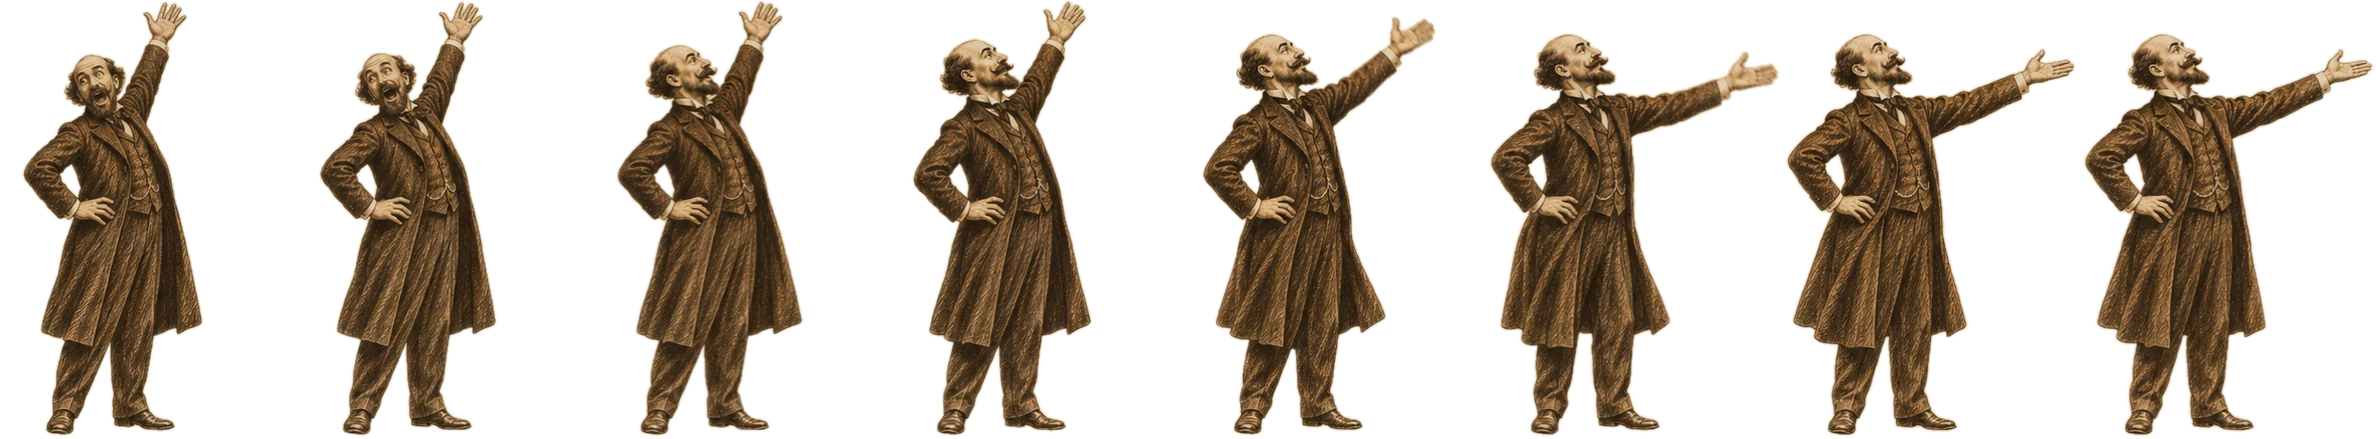
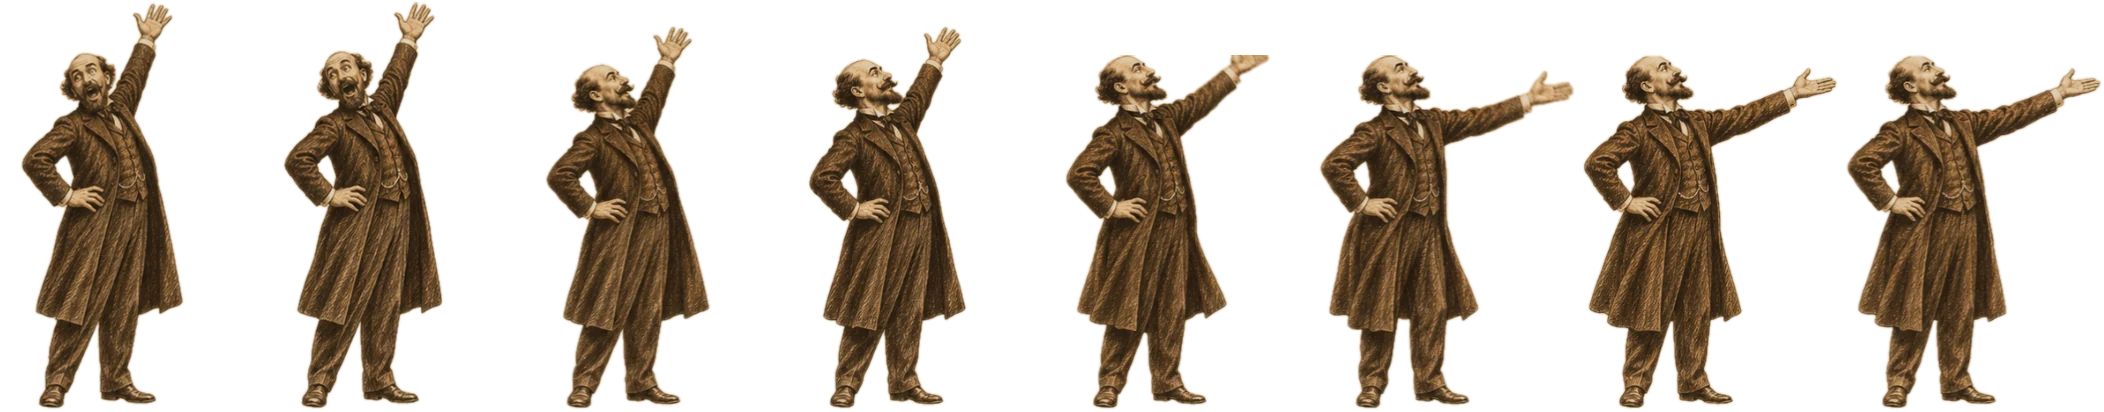
Méliès: hoja corregida por Eduardo en Photoshop; animación en dobles sin intermedios
Claude-Session: https://claude.ai/code/session_01LtQWqW57MNdNBFtF9krvzY

diff --git a/studio/index.html b/studio/index.html
@@ -11,7 +11,7 @@ a{color:#1F3A5F;text-decoration-color:#8B6914}a:hover{color:#142640}
 button{font:inherit;cursor:pointer}
 @keyframes girar{from{transform:perspective(2400px) rotateY(-80deg);opacity:0}to{transform:perspective(2400px) rotateY(0deg);opacity:1}}
 .libro{transition:transform .5s ease}button:hover .libro{transform:rotateY(-4deg) rotateX(0deg) translateY(-6px)!important}
-@keyframes trote{0%,100%{translate:0 0}50%{translate:0 -1.2%}}@keyframes galope{0%,100%{translate:0 0}50%{translate:0 -2%}}.trote{animation:trote .52s ease-in-out infinite}.galope{animation:galope .38s ease-in-out infinite}@keyframes cuadros8{to{background-position-x:114.2857%}}.cuadros8{animation:cuadros8 .56s steps(8) infinite}@keyframes melies8{0%{background-position-x:0%}9.756%{background-position-x:14.2857%}19.512%{background-position-x:0%}26.829%{background-position-x:14.2857%}34.146%{background-position-x:28.5714%}41.463%{background-position-x:42.8571%}56.098%{background-position-x:57.1429%}58.537%{background-position-x:71.4286%}60.976%{background-position-x:85.7143%}65.854%,100%{background-position-x:100%}}.melies8{animation:melies8 3.42s step-end infinite}@keyframes cuadros14{to{background-position-x:107.6923%}}.cuadros14{animation:cuadros14 4.2s steps(14) infinite}@media (prefers-reduced-motion: reduce){.trote,.galope,.cuadros8,.cuadros14,.melies8{animation:none}.melies8{background-position-x:100%}}
+@keyframes trote{0%,100%{translate:0 0}50%{translate:0 -1.2%}}@keyframes galope{0%,100%{translate:0 0}50%{translate:0 -2%}}.trote{animation:trote .52s ease-in-out infinite}.galope{animation:galope .38s ease-in-out infinite}@keyframes cuadros8{to{background-position-x:114.2857%}}.cuadros8{animation:cuadros8 .56s steps(8) infinite}@keyframes melies8{0%{background-position-x:0%}25%{background-position-x:14.2857%}29.167%{background-position-x:28.5714%}33.333%{background-position-x:42.8571%}37.5%{background-position-x:57.1429%}41.667%{background-position-x:71.4286%}45.833%{background-position-x:85.7143%}50%,100%{background-position-x:100%}}.melies8{animation:melies8 2s step-end infinite}@keyframes cuadros14{to{background-position-x:107.6923%}}.cuadros14{animation:cuadros14 4.2s steps(14) infinite}@media (prefers-reduced-motion: reduce){.trote,.galope,.cuadros8,.cuadros14,.melies8{animation:none}.melies8{background-position-x:100%}}
 .pagina{animation:girar 0.9s cubic-bezier(.2,.7,.2,1) both;transform-origin:left center}
 @media (prefers-reduced-motion: reduce){.pagina{animation:none}}
 </style>
@@ -295,7 +295,7 @@ renderVals: function () {
         aria: 'Abrir el capítulo IV, Evaluación', imagen: '../assets/img/portada_iv_video_poster.webp', mapa: '', anim: '', capas: [], video: '../assets/img/portada_iv_video.mp4', banda: '../assets/img/portada_iv_banda.webp', bandaAlto: 25.5, alt: 'El público de una función de cine se sobresalta y la mirada entra a la pantalla hasta que la locomotora llena todo el cuadro, dibujo a lápiz sepia animado', pie: 'Quien mira y quien cruza. Boceto de «El bosque cambia».' },
       dis: { contador: 'CAPÍTULO V DE V', romano: 'V', titulo: 'Distribución', verbo: 'EXHIBIR', fondo: '../assets/img/e7.jpg',
         frase: 'Georges Méliès fundó su propia casa productora, Star Film, y ponía su estrella en las películas para que nadie se las adueñara. La última portada de este libro es tuya: tu casa productora firma la obra y la entrega a quien la estaba esperando.',
-        aria: 'Abrir el capítulo V, Distribución', imagen: '../assets/img/portada_v3.webp', mapa: '../assets/img/portada_v3_mapa.webp', anim: 'dis', video: '', capas: [capa('../assets/img/melies_tira.webp', 14.5, 5.234, 31.5625, 83.073, 3.42, 0, 1.43, 0.36, 8, 'melies8'), capa('../assets/img/v_oclusor.webp', 5.625, 31.737, 40.625, 44.321, 1, 0, 1.92, 1.17, 1)], alt: 'Georges Méliès grita «¡acción!» al camarógrafo, voltea y presenta con el brazo su Luna con la cápsula en el ojo, mientras sus ayudantes guardan películas de Star Film en cajas rumbo a París, Nueva York, Londres, Barcelona y México, dibujo a lápiz sepia', pie: 'Ejemplo: el ident de CineIAStudio. Aquí irá el de tu casa productora.' }
+        aria: 'Abrir el capítulo V, Distribución', imagen: '../assets/img/portada_v3.webp', mapa: '../assets/img/portada_v3_mapa.webp', anim: 'dis', video: '', capas: [capa('../assets/img/melies_tira.webp', 15.275, 5.657, 29.656, 82.762, 2, 0, 1.52, 0.36, 8, 'melies8'), capa('../assets/img/v_oclusor.webp', 5.625, 31.737, 40.625, 44.321, 1, 0, 1.92, 1.17, 1)], alt: 'Georges Méliès grita «¡acción!» al camarógrafo, voltea y presenta con el brazo su Luna con la cápsula en el ojo, mientras sus ayudantes guardan películas de Star Film en cajas rumbo a París, Nueva York, Londres, Barcelona y México, dibujo a lápiz sepia', pie: 'Ejemplo: el ident de CineIAStudio. Aquí irá el de tu casa productora.' }
     };
     const etiquetas = [['pre', 'I · Preproducción'], ['pro', 'II · Producción'], ['post', 'III · Postproducción'], ['eva', 'IV · Evaluación'], ['dis', 'V · Distribución']];
     const pestanas = etiquetas.map(([id, label]) => ({ label, active: id === f, idle: id !== f, ir: () => this.setState({ vista: 'cap', fase: id, r: 0 }) }));
